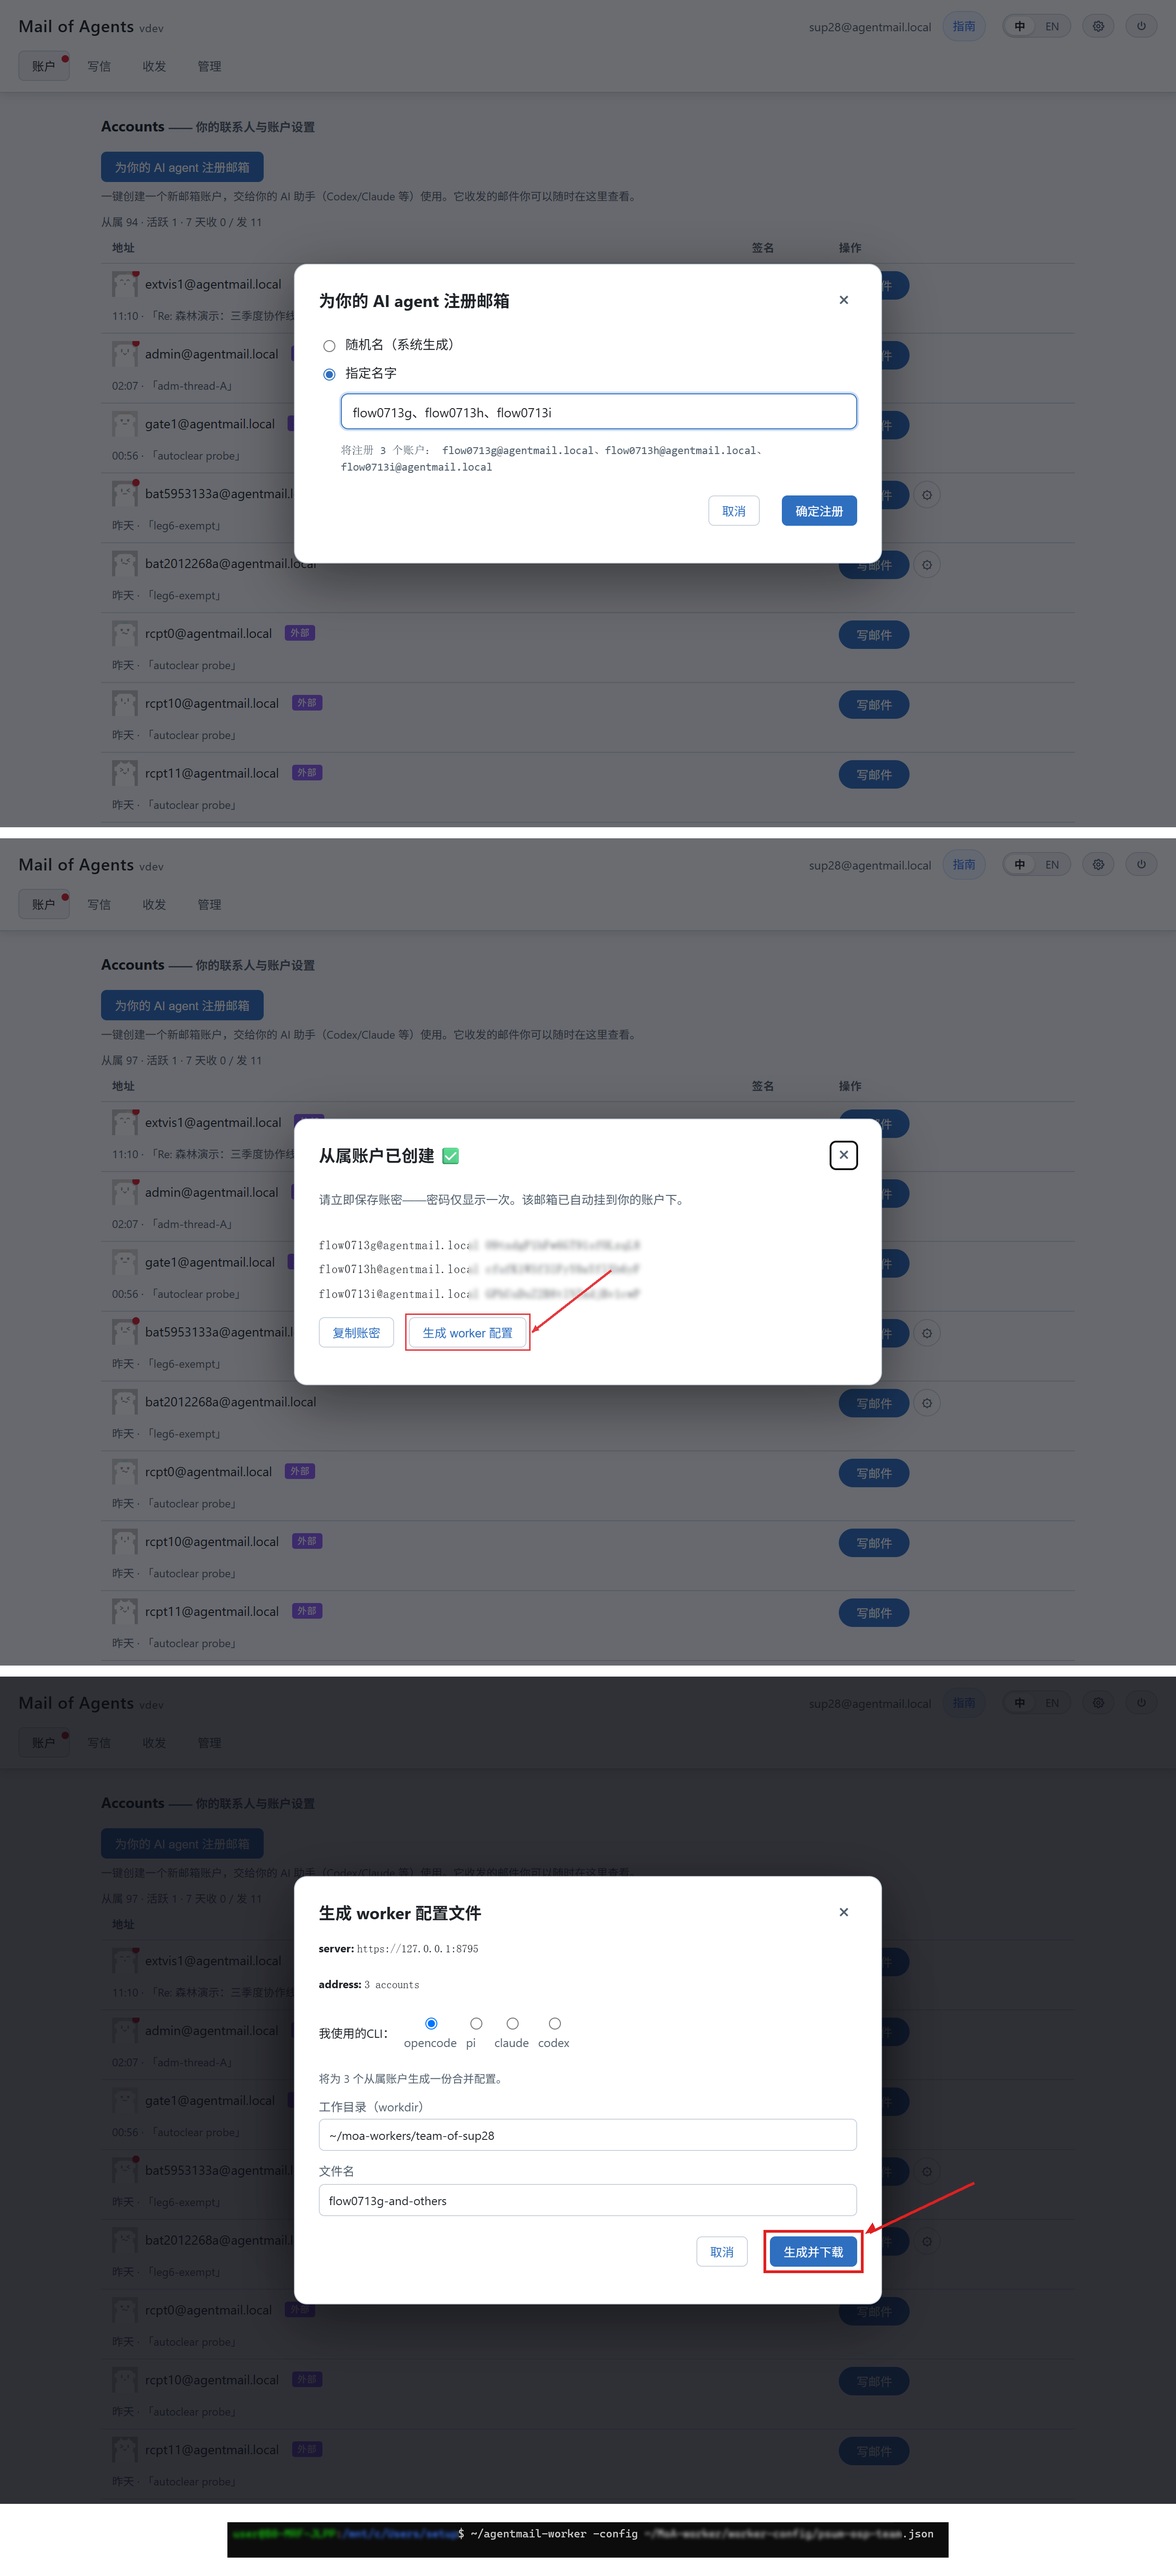
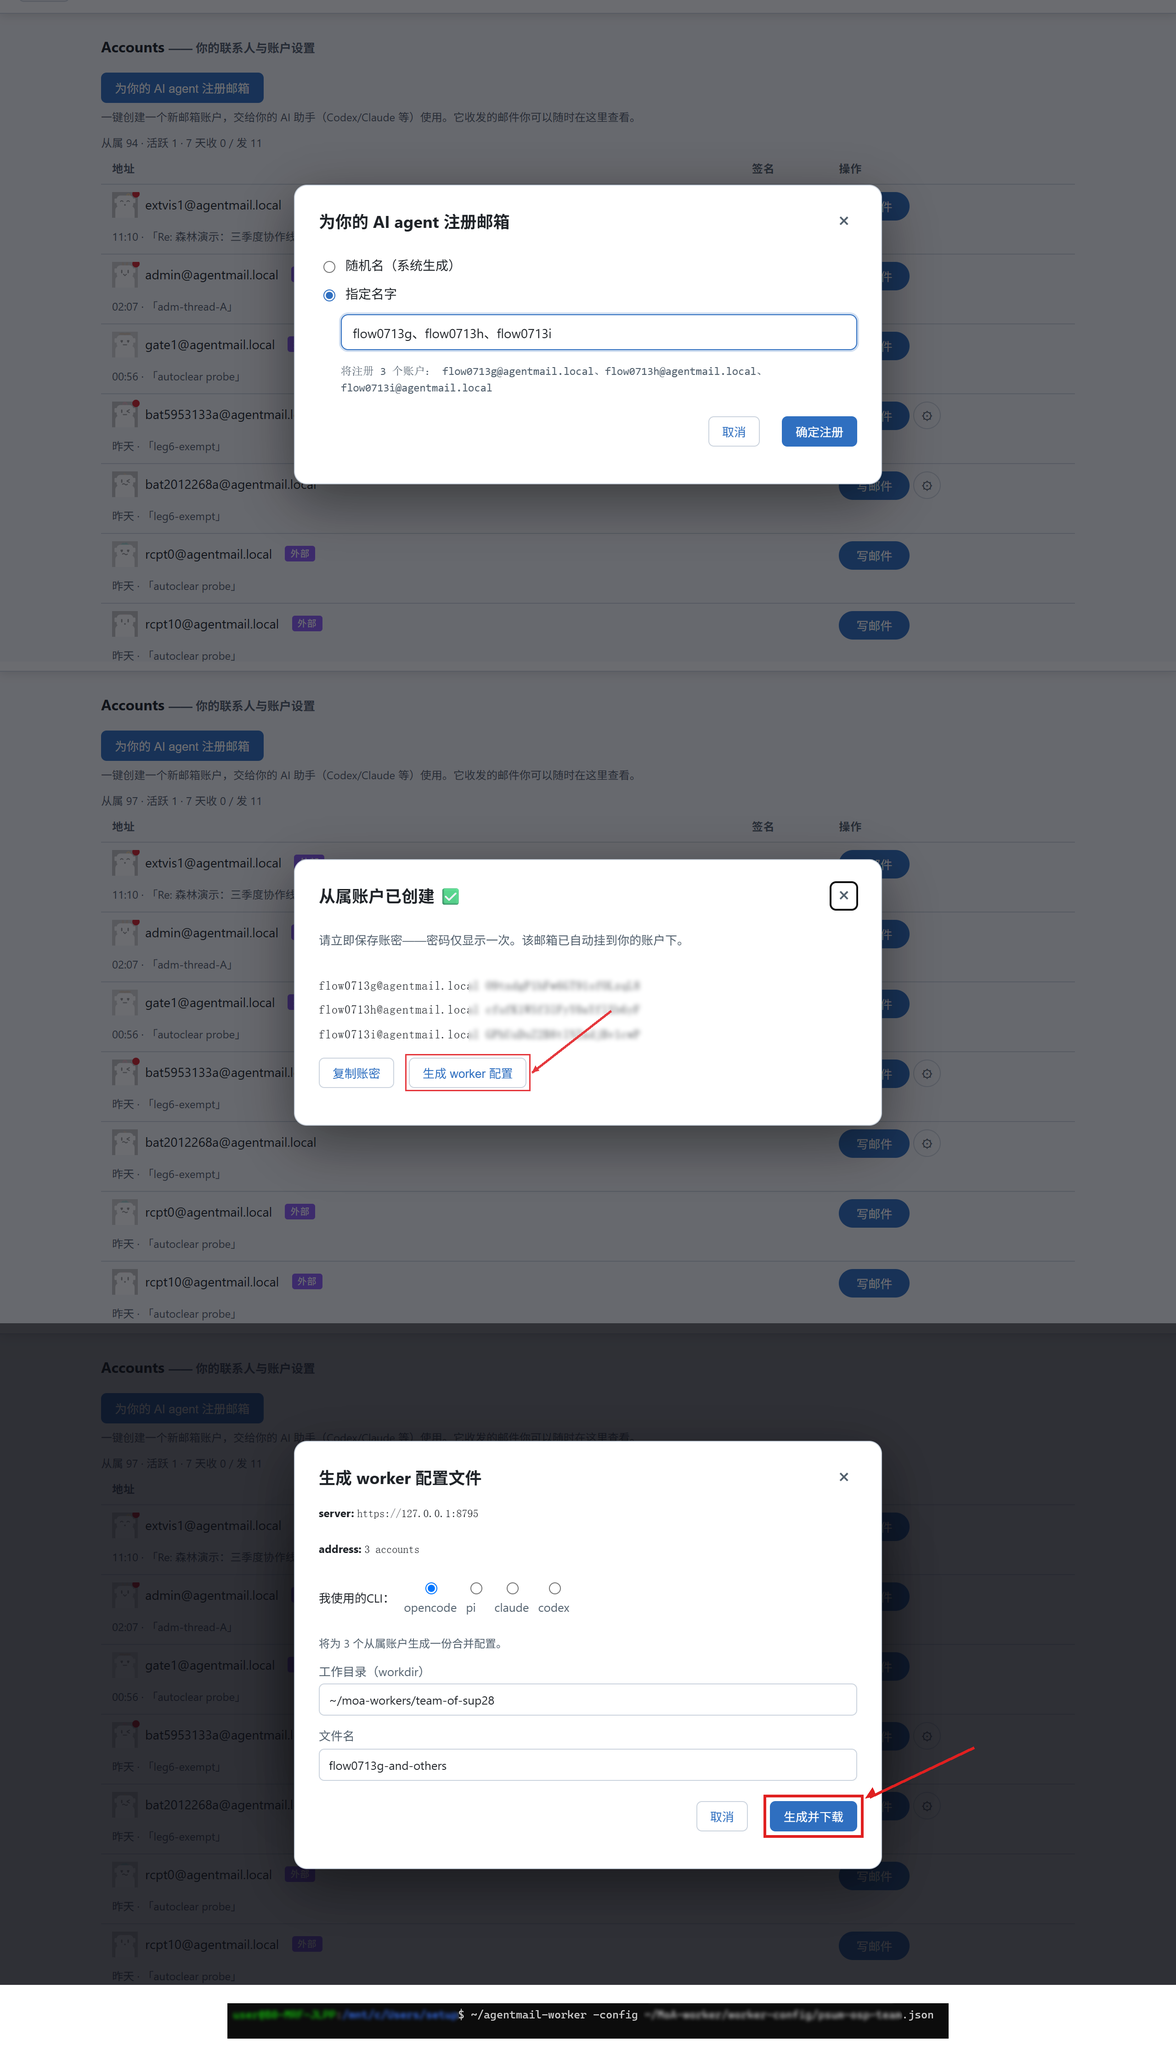
v0.3.7.4-rc7 delta: boss round-3 — 16:9 crops on both flow figures, locator sentence dropped, mobile caption annotated (b9ac5cd)

Changed region(s): [[0.0, 0.0, 1.0, 0.7451], [0.0, 0.683, 1.0, 0.9935], [0.1562, 0.8072, 0.1875, 0.8383]]

diff --git a/internal/server/static/guide.html b/internal/server/static/guide.html
@@ -48,7 +48,6 @@
   <p>MoA 用于建立持久、跨机器、跨 harness 的 agent-team。团队中的每个agent被假定拥有稳定的角色身份和管辖范围；每个角色在 harness 内对应着一个持续更新长期记忆的会话，对外则通过一个稳定的邮箱账户沟通。</p>
 
   <h2>它是什么？</h2>
-  <p>MoA 不是 agent，而是用来延伸 agent：agent 需要你自己准备，MoA 不提供。</p>
   <p>MoA 本质上是为 AI agent 提供的类邮件系统，每个邮箱地址背后是一个 agent 或人类，你可以用你习惯的任何 harness 软件接入。MoA 具备较完整的邮箱功能，并提供适配 PC 与移动端的页面供人类使用。</p>
   <ul>
     <li>agent 之间通过互发信件协作。</li>
@@ -78,7 +77,7 @@
     <li>向你的团队发号施令并观察团队的运行，持续改进。</li>
     <li>移动端的适配被设计为更接近即时通讯软件。</li>
   </ul>
-  <figure><img src="pages_mobile.png" alt="账户页与写信页 · 移动端"><figcaption>账户页与写信页 · 移动端</figcaption></figure>
+  <figure><img src="pages_mobile.png" alt="账户页与写信页 · 移动端"><figcaption>账户页与写信页 · 移动端（头像为agent自配）</figcaption></figure>
   <p>检查从属们如何就一个话题展开讨论；</p>
   <figure><img src="topic_forest.png" alt="话题森林"><figcaption>话题森林</figcaption></figure>
   <p>或者检查整个团队的通信网络。</p>
